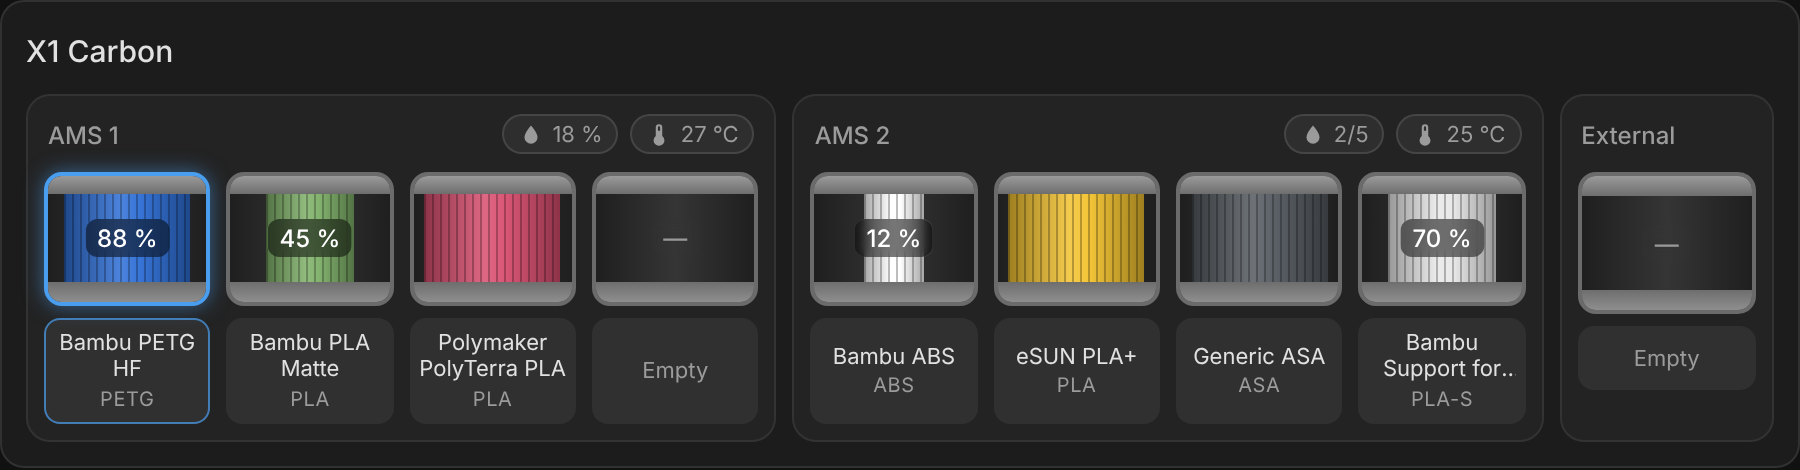
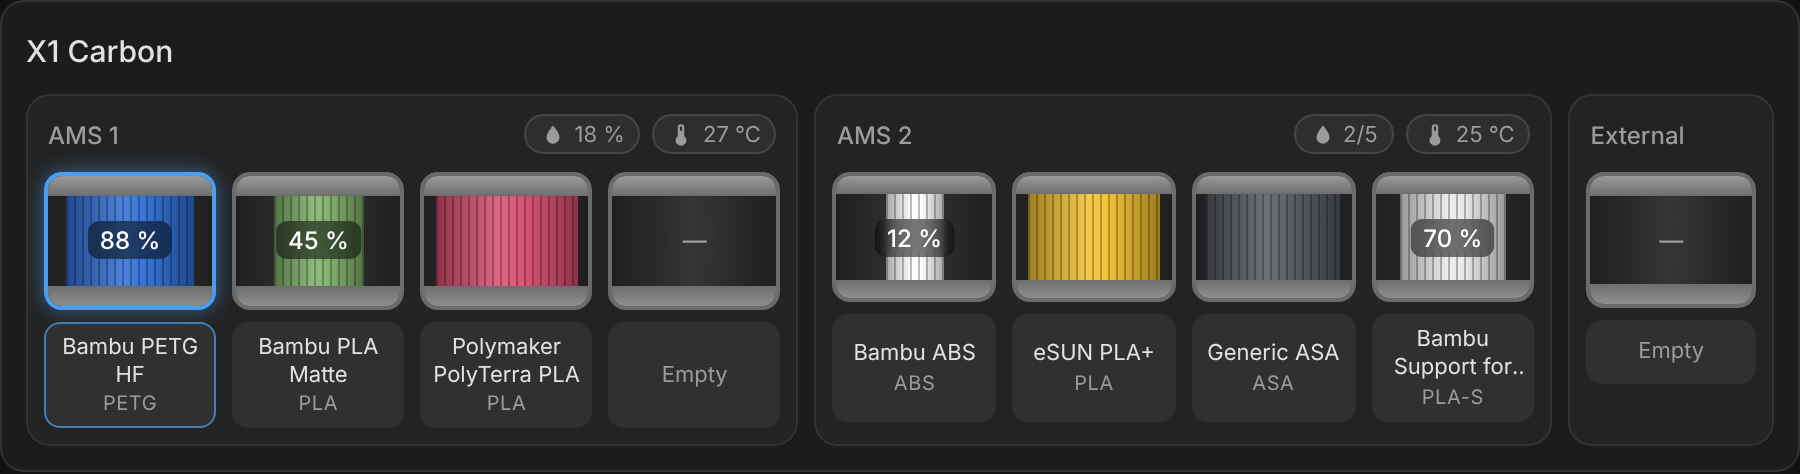
Filament cards: better phone layout, simpler editor
- external spool stays in one row with the neighbouring AMS instead of
  taking a whole row on narrow screens
- tighter spacing and smaller text in narrow columns (container query)
- display options shown directly in the editor, not in a collapsed section

Claude-Session: https://claude.ai/code/session_01SUarsSoSxf9eoMYcUKLv7D

diff --git a/bambulab-card.js b/bambulab-card.js
@@ -656,7 +656,9 @@ const BBF_STYLE = `
   .chip { display: inline-flex; align-items: center; gap: 4px; font-size: 12px; padding: 2px 9px; border-radius: 999px; white-space: nowrap;
           background: rgba(128,128,128,.12); border: 1px solid rgba(128,128,128,.28); color: var(--secondary-text-color); cursor: pointer; line-height: 1.5; }
   .chip svg { flex-shrink: 0; }
+  ha-card { container-type: inline-size; }
   .groups { display: flex; flex-wrap: wrap; gap: 8px; }
+  .pair { display: flex; gap: 8px; min-width: 0; }
   .grp { min-width: 0; box-sizing: border-box; background: rgba(128,128,128,.07); border: 1px solid rgba(128,128,128,.18); border-radius: 12px; padding: 8px; }
   .ghead { display: flex; align-items: center; justify-content: space-between; gap: 6px; margin: 0 2px 8px; min-height: 22px; }
   .glabel { font-size: 12px; font-weight: 500; color: var(--secondary-text-color); white-space: nowrap; overflow: hidden; text-overflow: ellipsis; }
@@ -699,6 +701,18 @@ const BBF_STYLE = `
   .slot.active .spool { border-color: var(--bbf-active); box-shadow: 0 0 10px color-mix(in srgb, var(--bbf-active) 55%, transparent); }
   .slot.active .dot { box-shadow: inset 0 0 0 2px rgba(255,255,255,.18), 0 0 0 3px var(--bbf-active), 0 0 10px var(--bbf-active); }
   .slot.active .lbl { border-color: color-mix(in srgb, var(--bbf-active) 70%, transparent); }
+  /* phones / narrow columns */
+  @container (max-width: 440px) {
+    .groups, .pair, .slots { gap: 5px; }
+    .grp { padding: 6px; border-radius: 10px; }
+    .ghead { margin: 0 1px 6px; }
+    .ghead .chip { font-size: 10px; padding: 0 5px; gap: 2px; }
+    .lbl { padding: 4px 2px; min-height: 28px; }
+    .nm { font-size: 10px; }
+    .ty { font-size: 9px; }
+    .val { font-size: 10px; padding: 1px 4px; }
+    .spool { border-radius: 7px; }
+  }
 `;
 
 class BambuLabFilamentBase extends HTMLElement {
@@ -877,10 +891,20 @@ class BambuLabFilamentCard extends BambuLabFilamentBase {
     if (!groups.length) return `<div class="warn">${T.f_warn_printer}</div>`;
     // keep group headers the same height so the spools line up
     const anyHead = groups.some((g) => g.head);
-    const body = groups.map((g) => {
-      const head = g.head || (anyHead ? '<div class="ghead"></div>' : '');
-      return `<div class="grp" style="flex:${g.n} 1 ${g.n * 64 + 18}px">${head}${this._slotsHtml(g.slots, T)}</div>`;
-    }).join('');
+    const basis = (n) => `${n * 50 + 14}px`;
+    const grp = (g) => `<div class="grp" style="flex:${g.n} 1 ${basis(g.n)}">${g.head || (anyHead ? '<div class="ghead"></div>' : '')}${this._slotsHtml(g.slots, T)}</div>`;
+    // the external spool always stays in one row with its neighbouring AMS, so on a phone
+    // it doesn't end up alone in a full-width row
+    const items = [];
+    for (let i = 0; i < groups.length; i++) {
+      const g = groups[i];
+      const next = groups[i + 1];
+      if (next && (g.ext || next.ext)) {
+        items.push(`<div class="pair" style="flex:${g.n + next.n} 1 ${basis(g.n + next.n)}">${grp(g)}${grp(next)}</div>`);
+        i++;
+      } else items.push(grp(g));
+    }
+    const body = items.join('');
     return this._header(c.title, '') + `<div class="groups">${body}</div>`;
   }
   static getStubConfig(hass) {
@@ -927,7 +951,7 @@ function bbfSchema(kind, T) {
   return [
     ...head,
     { name: 'title', selector: { text: {} } },
-    { name: 'display', type: 'expandable', flatten: true, icon: 'mdi:eye-outline', schema: display },
+    ...display,
     ...slots,
   ];
 }
